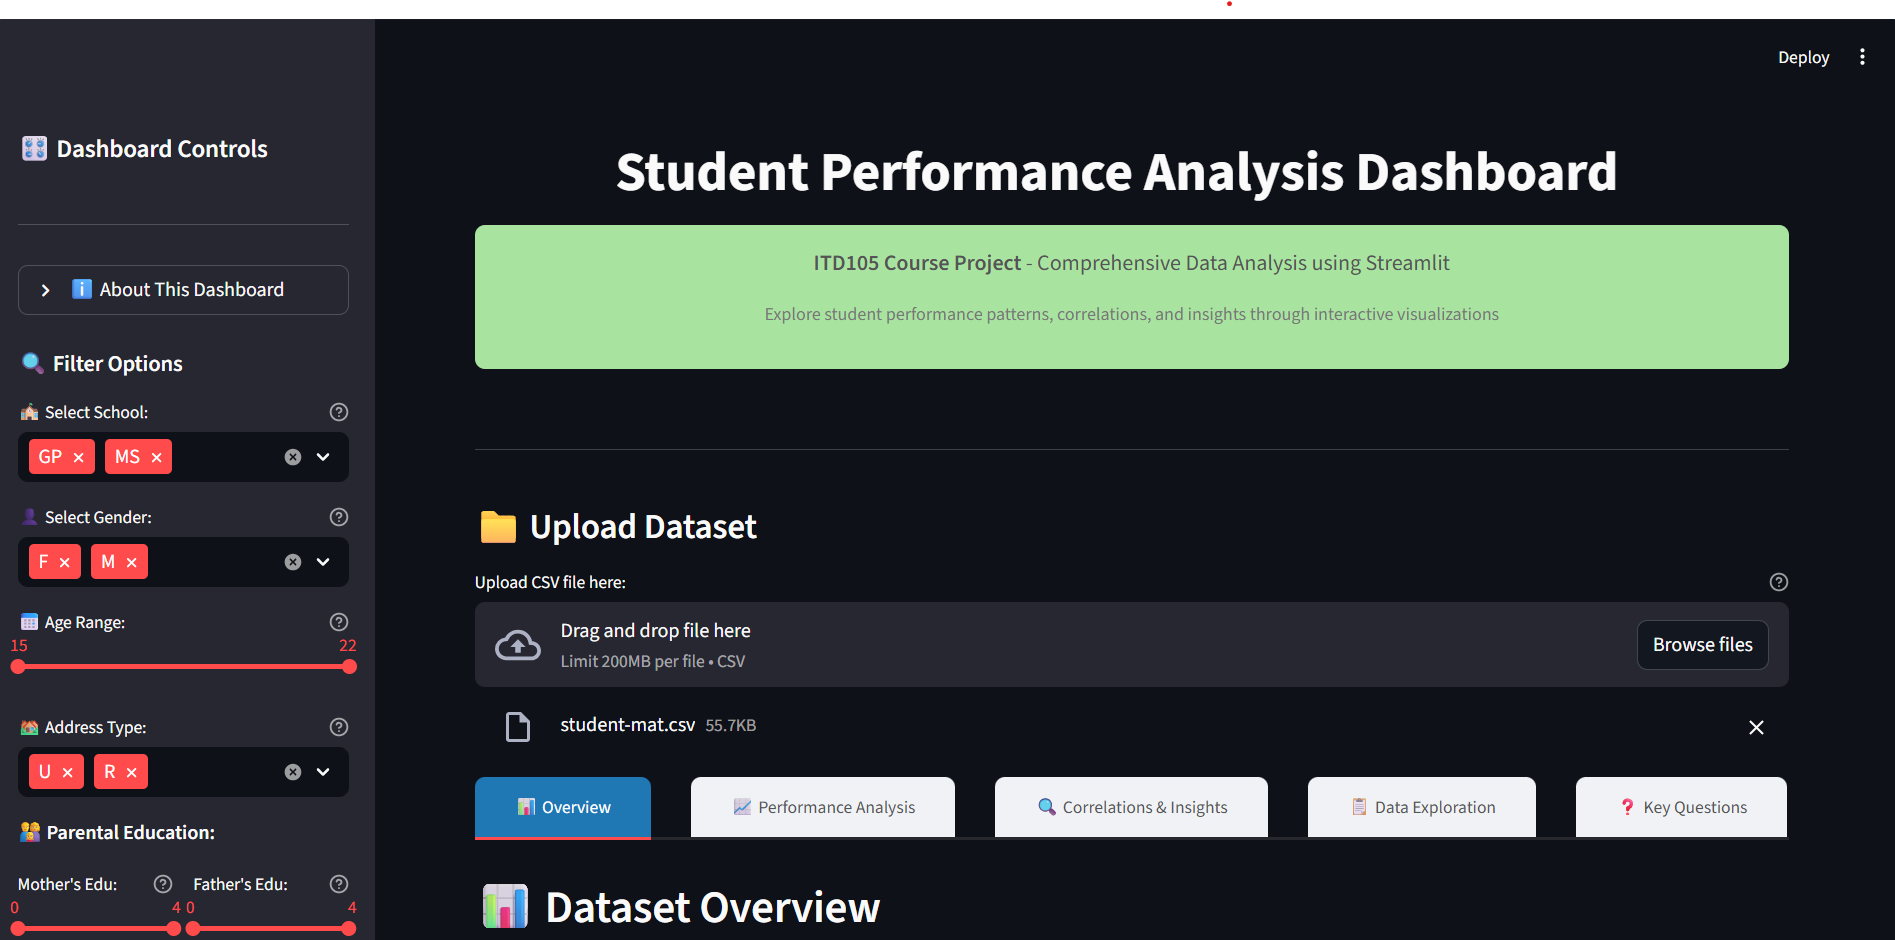
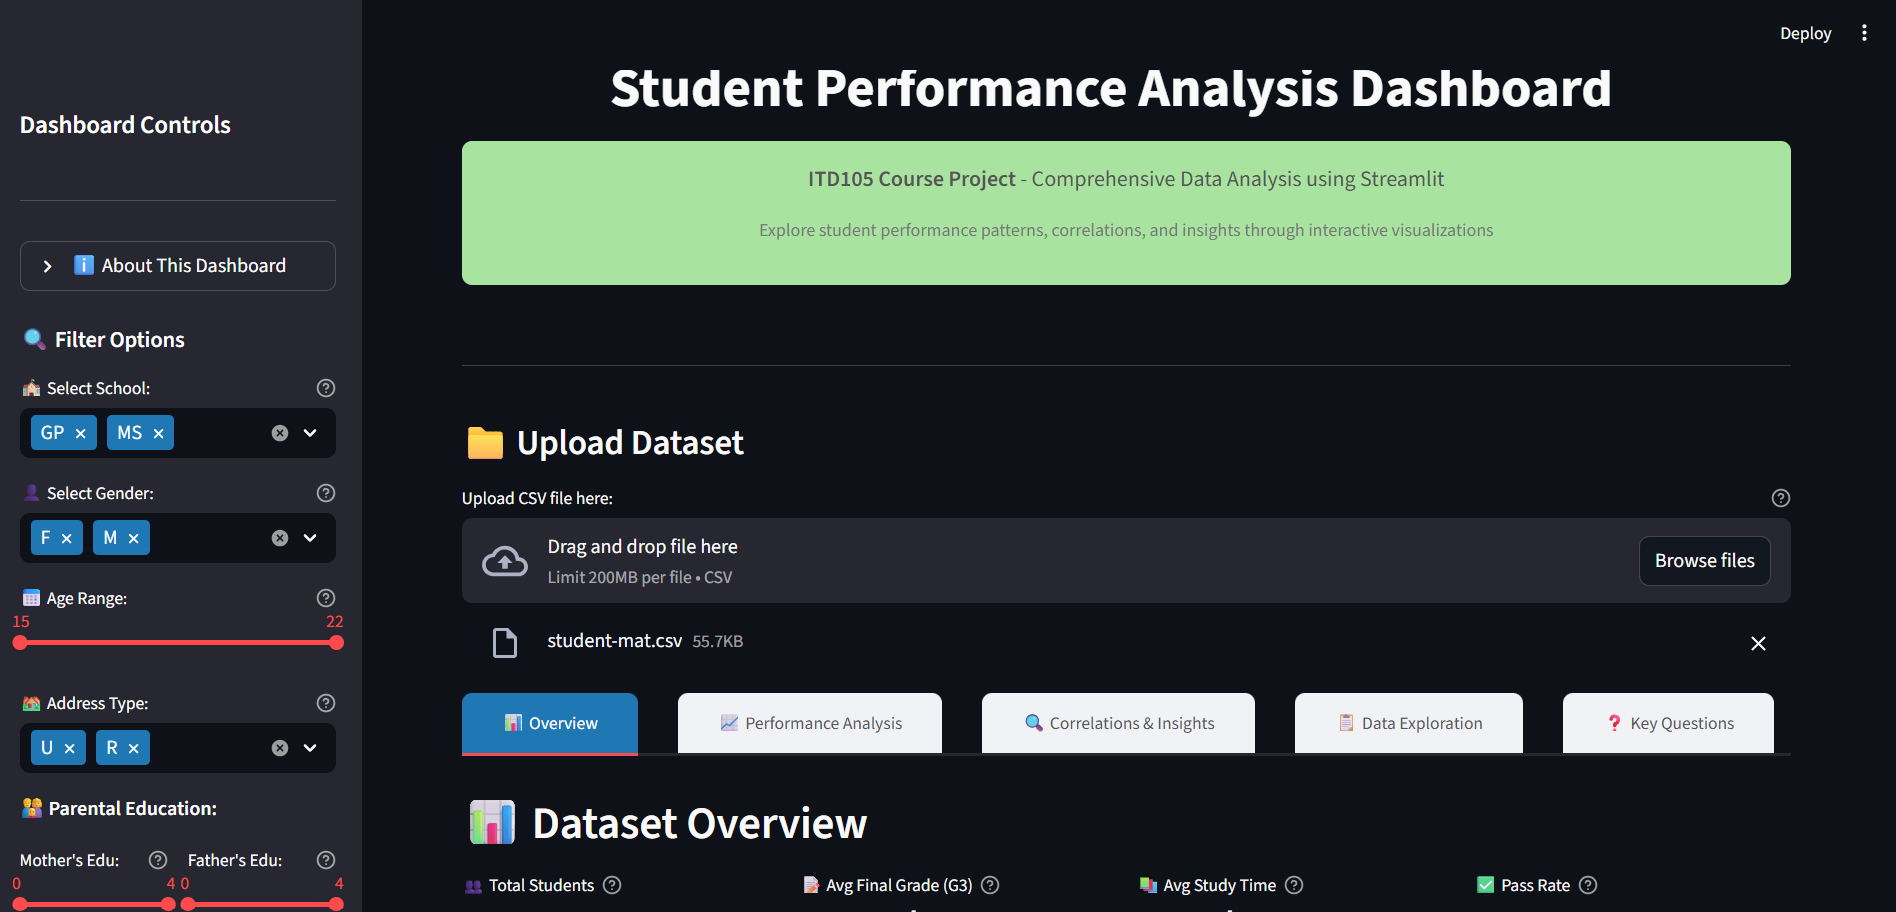
Updated the Sidebar and README file

diff --git a/student_performance.py b/student_performance.py
@@ -25,26 +25,57 @@ st.set_page_config(
 st.markdown("""
 <style>
     
-    /* Style all sidebar buttons */
-    div.stButton > button {
-        background-color: #6495ED;  /* button background */
-        color: white;               /* text color */
-        border-radius: 8px;         /* rounded corners */
-        border: none;               /* remove border */
-        font-weight: bold;
-        transition: 0.3s;
+    
+       /* Make sidebar accent (slider, selected options, etc.) blue */
+    [data-testid="stSidebar"] .stSlider > div[data-baseweb="slider"] .css-14g5y4m {
+        background: #1f77b4 !important;
     }
-
-    div.stButton > button:hover {
-        background-color: #155a8a;  /* hover color */
+    [data-testid="stSidebar"] .stSlider .css-1gv0vcd {
+        background: #1f77b4 !important;
+    }
+    [data-testid="stSidebar"] .stMultiSelect [data-baseweb="tag"] {
+        background: #1f77b4 !important;
+        color: #fff !important;
+    }
+    [data-testid="stSidebar"] .stMultiSelect [data-baseweb="tag"]:hover {
+        background: #155a8a !important;
+        color: #fff !important;
+    }
+    [data-testid="stSidebar"] .st-cq {
+        color: #1f77b4 !important;
+    }
+    [data-testid="stSidebar"] .st-bw {
+        color: #1f77b4 !important;
+    }
+    /* Change hover color of chips */
+    .stMultiSelect div[data-baseweb="tag"]:hover {
+        background-color: #155a8a;  /* darker on hover */
         color: #fff;
     }
-    .stMultiSelect div[data-baseweb="tag"] {
-        background-color: #6495ED;  /* background color */
-        color: white;               /* text color */
-        border-radius: 6px;         /* rounded corners */
-        padding: 2px 8px;
-        font-weight: bold;
+    /* Make all sidebar text white */
+    [data-testid="stSidebar"] {
+        color: #fff !important;
+    }
+    [data-testid="stSidebar"] label, 
+    [data-testid="stSidebar"] .st-cq, 
+    [data-testid="stSidebar"] .st-bw, 
+    [data-testid="stSidebar"] .st-emotion-cache-1kyxreq, 
+    [data-testid="stSidebar"] .st-emotion-cache-1v0mbdj, 
+    [data-testid="stSidebar"] .st-emotion-cache-1n76uvr, 
+    [data-testid="stSidebar"] .st-emotion-cache-1vzeuhh {
+        color: #fff !important;
+    }
+    [data-testid="stSidebar"] .stSlider label {
+        color: #fff !important;
+    }
+    [data-testid="stSidebar"] .stCheckbox span {
+        color: #fff !important;
+    }
+    [data-testid="stSidebar"] .stSelectbox label {
+        color: #fff !important;
+    }
+    [data-testid="stSidebar"] .stMultiSelect label {
+        color: #fff !important;
     }
     /* Change hover color of chips */
     .stMultiSelect div[data-baseweb="tag"]:hover {
@@ -125,7 +156,7 @@ if uploaded_file is not None:
     df['Performance_Category'] = df['G3'].apply(categorize_performance)
     
     # Sidebar Configuration
-    st.sidebar.markdown("## 🎛 Dashboard Controls")
+    st.sidebar.markdown("## Dashboard Controls")
     st.sidebar.markdown("---")
     
     # About Section
